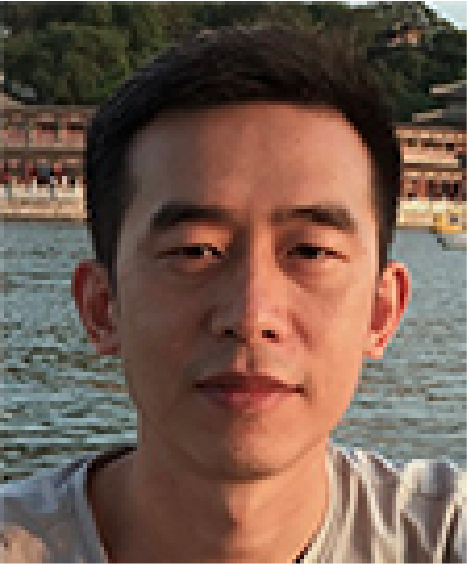
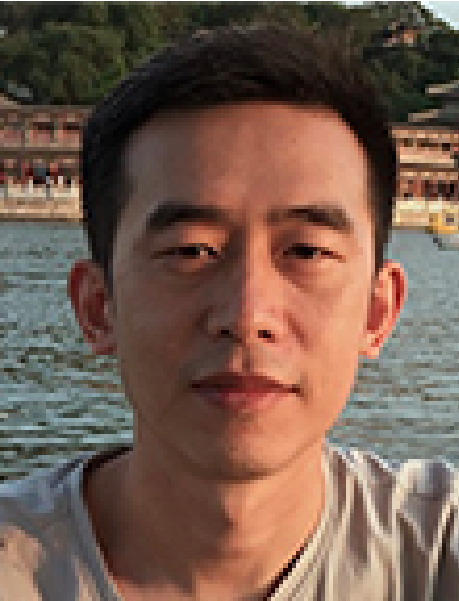
1

diff --git a/categories/peoples.html b/categories/peoples.html
@@ -5,7 +5,7 @@ type: peoples
 
 <h3>严川 (PI, Chuan Yan)</h3>
 <p>
-<img src="/assets/img/yanchuan.png" align="top" width="100%" height="100%">
+<img src="/assets/img/yanchuan.png" align="top" width="110" height="144">
 </p>
 <p>
 <a href="https://www.researchgate.net/profile/Chuan-Yan/research">researchgate</a>  
